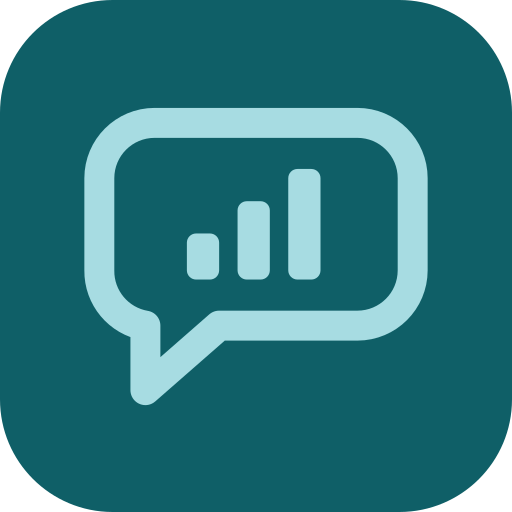
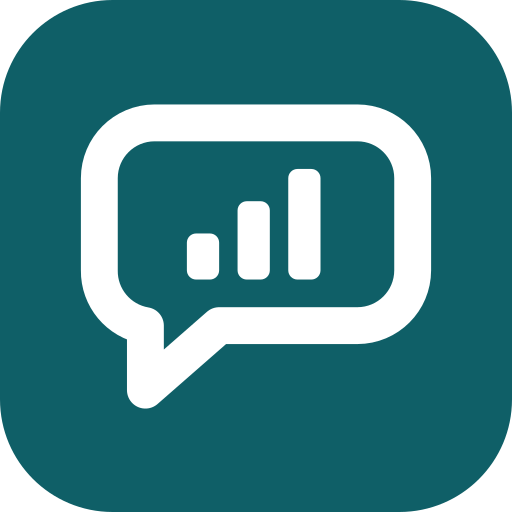
feat(brand): 앱 아이콘 마크를 흰색·굵은 선으로 바꿔 대비 4.90→7.36 (오너 선택 A+)

Changed region(s): [[0.1562, 0.1875, 0.8438, 0.8125], [0.3438, 0.375, 0.5312, 0.5625], [0.5625, 0.3125, 0.625, 0.5625]]

diff --git a/src/components/brand/brand-mark.tsx b/src/components/brand/brand-mark.tsx
@@ -7,10 +7,10 @@ import { cn } from "@/lib/utils";
  * 원본이 그렇듯 **단색**이다 — 말풍선도 막대도 전부 `currentColor` 라서 부모의 `text-*`
  * 하나로 색이 결정된다. 그래서 표면을 옮길 때 이 컴포넌트를 고칠 일이 없다.
  *
- * `<img>` 가 아니라 인라인 SVG 인 이유가 이것이다 — 사이드바(네이비)·설치 게이트·로그인처럼
+ * `<img>` 가 아니라 인라인 SVG 인 이유가 이것이다 — 사이드바·설치 게이트·로그인처럼
  * 배경이 다른 자리에 한 컴포넌트로 얹히려면 색을 상속받아야 한다.
  *
- * ⚠ 색은 **표면 종속**이다(P8 §5). 청록 앵커·딥 표면 위에서는 밝은 청록 `--brand-mark`
+ * ⚠ 색은 **표면 종속**이다(P8 §5). 청록 앵커·딥 표면 위에서는 흰 `--brand-mark`
  * 토큰을 부모 `text-*` 로 얹는다. 밝은 화면에서는 마크를 앵커 칩 안에 넣어 얹는다.
  *
  * 파비콘·PWA 아이콘(`src/app/icon.svg`, `public/icon-*.png`)은 OS 가 읽는 별도 표면이라
@@ -39,7 +39,7 @@ export function BrandMark({
         d="M28 20 H72 A12 12 0 0 1 84 32 V52 A12 12 0 0 1 72 64 H42 L26 78 V64 A12 12 0 0 1 16 52 V32 A12 12 0 0 1 28 20 Z"
         fill="none"
         stroke="currentColor"
-        strokeWidth="6.5"
+        strokeWidth="8"
         strokeLinejoin="round"
       />
       <g fill="currentColor">

diff --git a/src/components/mobile/mobile-standalone-gate.tsx b/src/components/mobile/mobile-standalone-gate.tsx
@@ -17,7 +17,7 @@ export function MobileStandaloneGate({ children }: { children: React.ReactNode }
         <div className="space-y-4">
           {/* 이 화면은 "홈 화면에 추가"를 안내한다 — 배지가 실제 앱 아이콘과 같은 모습이어야
               사용자가 추가 후 찾을 아이콘과 눈으로 이어진다. 그래서 타일(--primary 청록)까지
-              아이콘 파일과 같은 값으로 맞춘다. 청록 타일 위 연청록 마크 4.90:1(3:1 통과).
+              아이콘 파일과 같은 값으로 맞춘다. 청록 타일 위 흰 마크 7.36:1(4.5:1 통과).
               라디우스는 #69 형태 사다리의 rounded-2xl 을 따른다 — 아이콘 파일의 rx(22/100)와
               정확히 같지는 않지만, 앱 안 형태 규율이 우선이다. */}
           <div className="inline-flex size-12 items-center justify-center rounded-2xl bg-primary">

diff --git a/src/components/auth/landing-login-branding.tsx b/src/components/auth/landing-login-branding.tsx
@@ -44,8 +44,8 @@ export function LandingBrandMark() {
         {neutral ? (
           <span className="text-[10px] font-extrabold tracking-[0.08em] text-white">W</span>
         ) : (
-          // 마크를 청록 칩 **안에** 넣는다 — 연청록 마크(brand-mark)는 흰 배경 위에서 안 보이므로
-          // 타일 없이 밝은 화면에 얹을 수 없다(P8 §5 표면 종속). 칩(#0F5F67) 안에서는 4.90:1.
+          // 마크를 청록 칩 **안에** 넣는다 — 흰 마크(brand-mark)는 흰 배경 위에서 안 보이므로
+          // 타일 없이 밝은 화면에 얹을 수 없다(P8 §5 표면 종속). 칩(#0F5F67) 안에서는 7.36:1.
           // 부수 효과로 이 배지가 실제 파비콘·홈화면 아이콘과 같은 모습이 된다.
           <BrandMark title="WAG CRM" className="size-7 text-brand-mark" />
         )}

diff --git a/src/app/globals.css b/src/app/globals.css
@@ -149,7 +149,7 @@
   --fill-teal-2: #69c5cf;
   --fill-teal-3: #70cdca;
   --primary-tint: #DDF0F1; /* 앵커 틴트 배경 — 위 --primary 글자 6.24:1 */
-  --brand-mark: #A7DCE2; /* 브랜드 마크 연청록 — 앵커 타일·딥 표면 위 마크 전용(모래색 금지) */
+  --brand-mark: #FFFFFF; /* 브랜드 마크 흰색 — 앵커 타일 위 7.36:1·딥 표면 10.38:1. 흰 바탕엔 타일 없이 금지(모래색 금지). 오너 선택 2026-10-17 */
   /* 자금 방향 축(2026-07-15 등록) — 입금=들어오는 돈, 지급=나가는 돈. 상태 배지
      스킴과 의미축이 다르다: 지급은 위험 신호가 아니다. 캘린더 링·시트 방향 아이콘이
      쓰던 리터럴 값 그대로다. */

diff --git a/src/components/crm/crm-sidebar.tsx b/src/components/crm/crm-sidebar.tsx
@@ -268,7 +268,7 @@ export function CrmSidebar() {
               <BrandMark
                 title="WAG CRM"
                 // 마크는 단색(currentColor)이라 text-* 가 곧 마크 색이다. 사이드바가 밝은
-                // 면(#F5F7F8)으로 바뀌어 연청록 brand-mark(1.40:1)는 못 얹는다 — 앵커 청록
+                // 면(#F5F7F8)으로 바뀌어 흰 brand-mark(1.07:1)는 못 얹는다 — 앵커 청록
                 // (--sidebar-primary #0F5F67)을 쓴다. 밝은 사이드바 위 6.85:1(3:1 통과).
                 className="size-9 text-sidebar-primary"
               />
